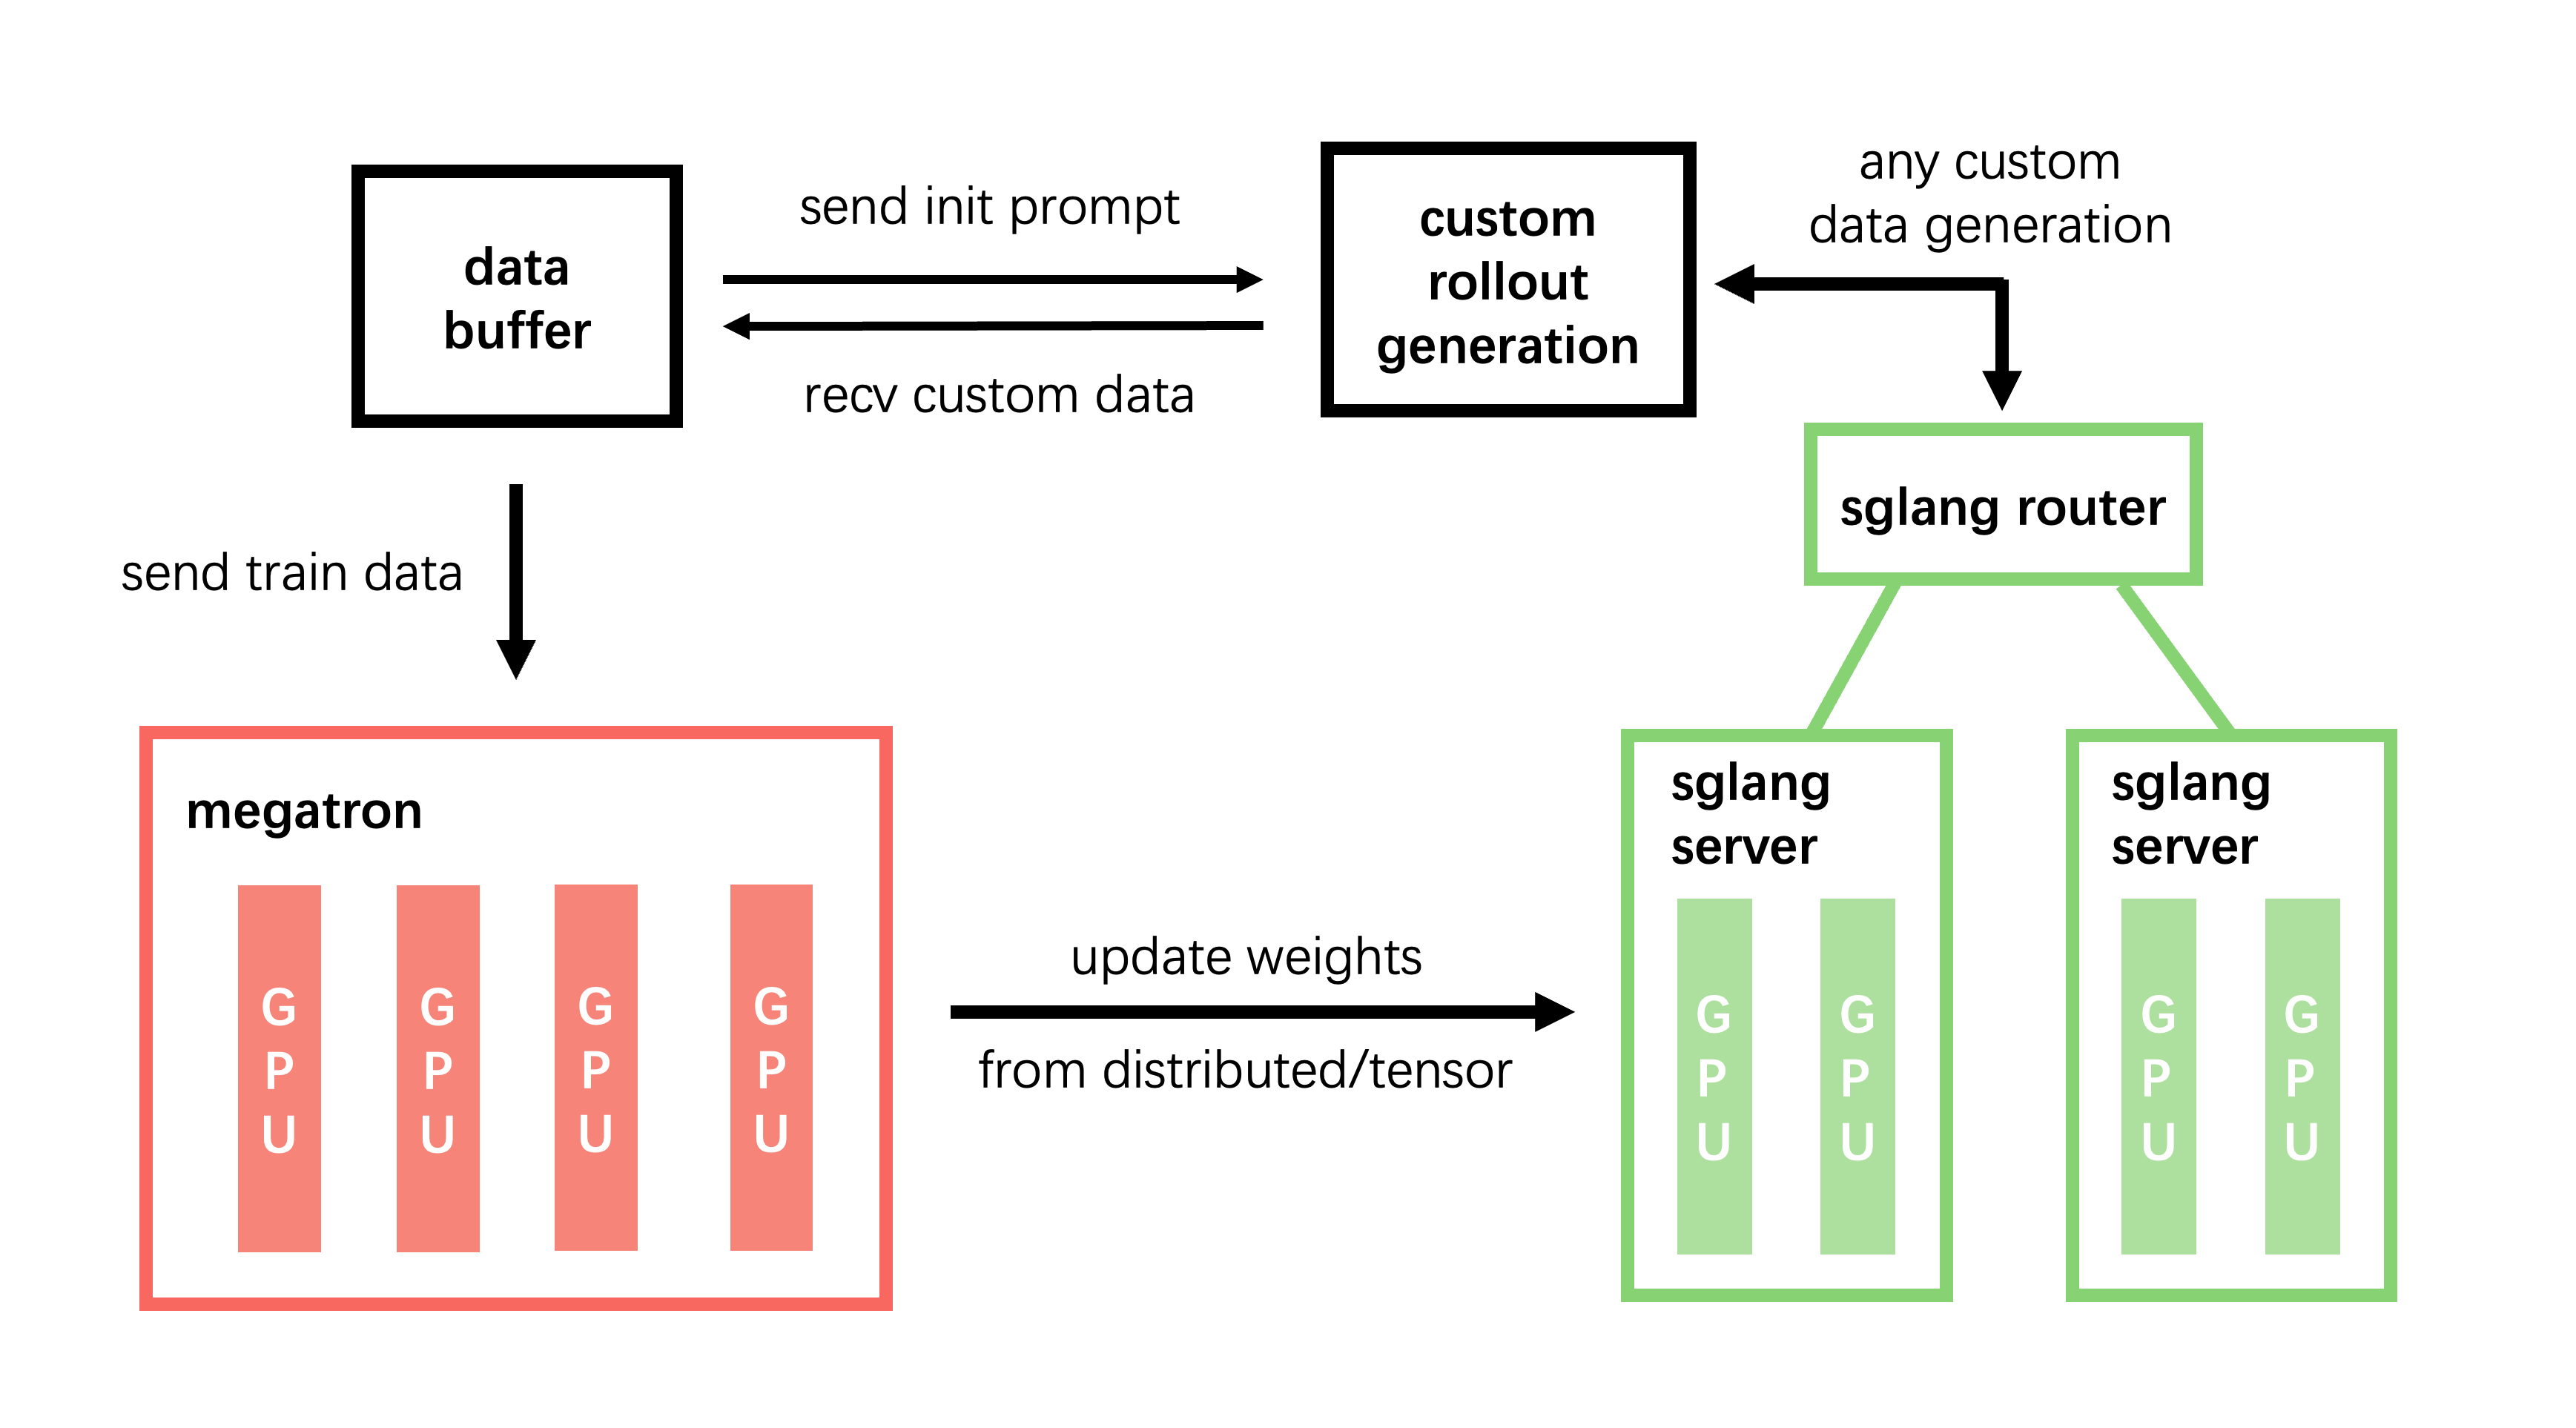
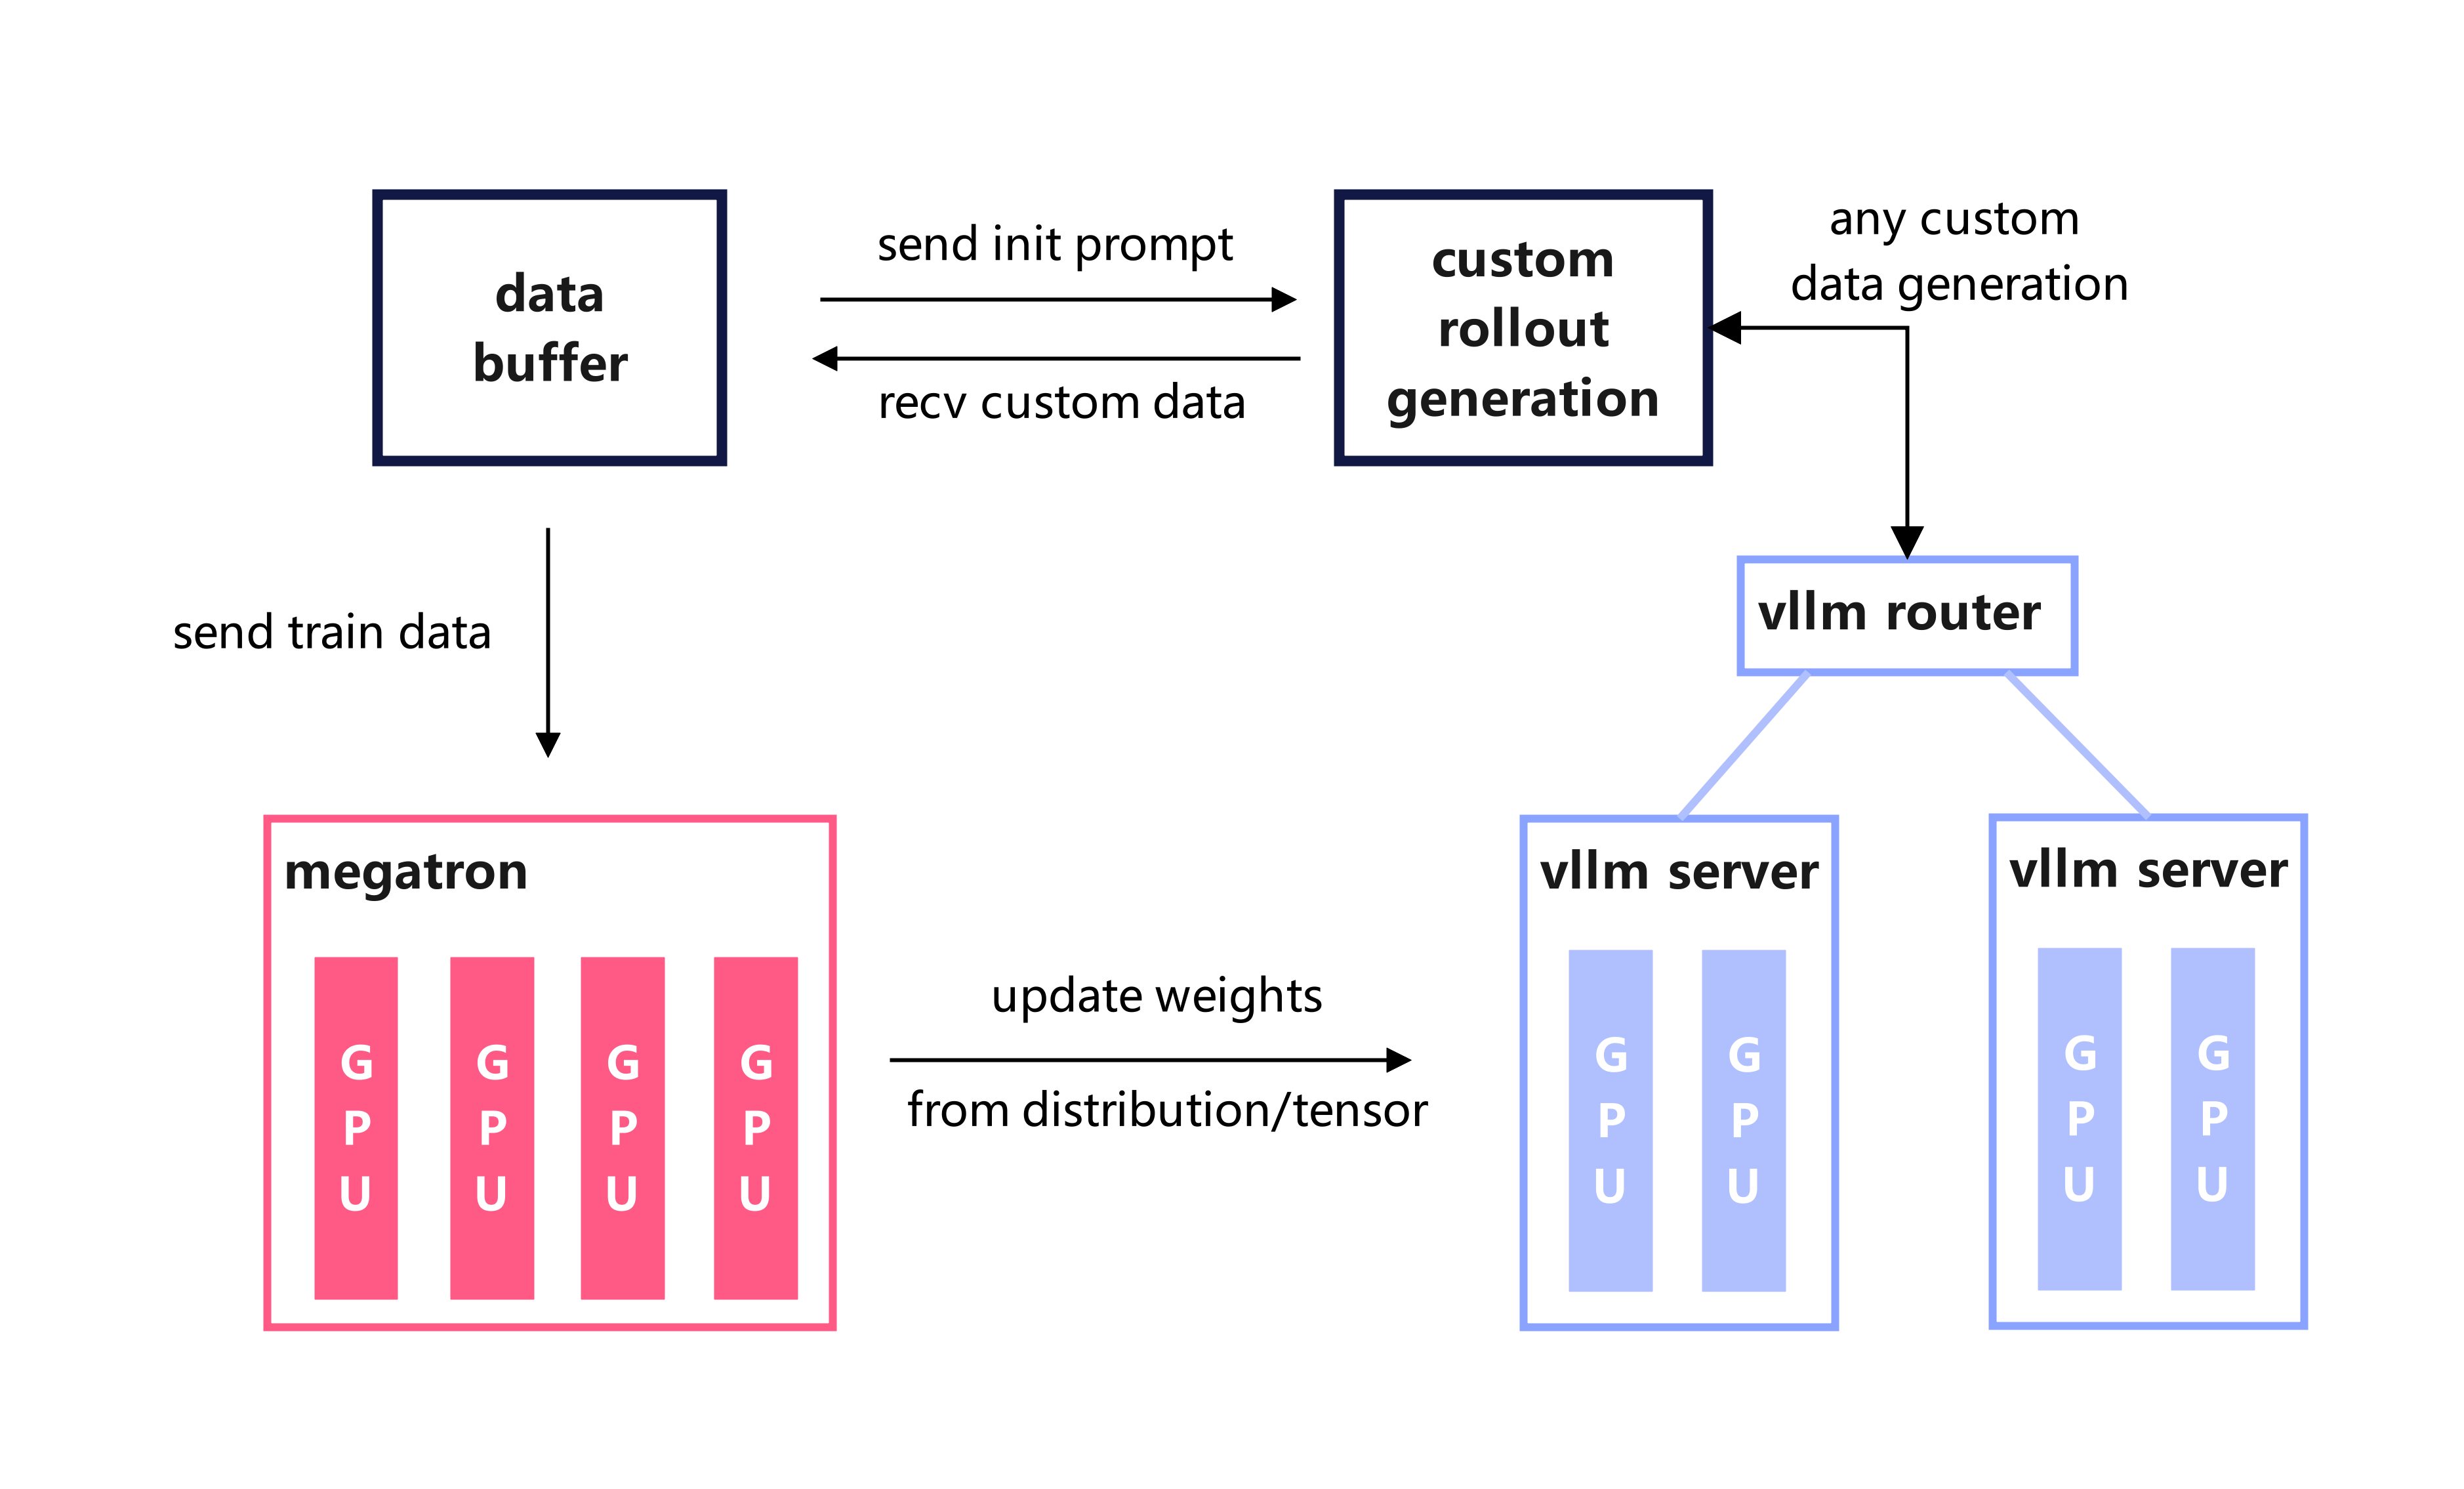
[Doc]: update README for Vime (#28)
* update vime readme

* update arch.png

Changed region(s): [[0.0311, 0.0935, 0.9637, 0.9346], [0.0622, 0.3427, 0.2176, 0.4673]]

diff --git a/README.md b/README.md
@@ -1,33 +1,25 @@
-# slime
+# Vime
 
-[中文版](./README_zh.md)
+[中文版](./README_zh.md) · [Repository](https://github.com/vllm-project/vime)
 
-[![Documentation](https://img.shields.io/badge/docs-latest-brightgreen.svg?style=flat)](https://thudm.github.io/slime/)
-[![Ask DeepWiki](https://deepwiki.com/badge.svg)](https://deepwiki.com/THUDM/slime)
+**Vime** is an LLM post-training framework for RL scaling, built on [slime](https://github.com/THUDM/slime). It keeps slime's training stack and data-generation design while using [**vLLM**](https://github.com/vllm-project/vllm) (with [vllm-router](https://github.com/vllm-project/router)) as the default rollout backend. Vime provides two core capabilities:
 
-**slime** is an LLM post-training framework for RL scaling, providing two core capabilities:
+1. **High-performance training**: Efficient training in various modes by connecting Megatron with vLLM;
+2. **Flexible data generation**: Arbitrary training data generation workflows through custom data generation interfaces and server-based engines.
 
-1.  **High-Performance Training**: Supports efficient training in various modes by connecting Megatron with SGLang;
-2.  **Flexible Data Generation**: Enables arbitrary training data generation workflows through custom data generation interfaces and server-based engines.
+Vime inherits broad model support from slime, including:
 
-slime is the RL-framework behind [GLM-5.1](https://z.ai/blog/glm-5.1), [GLM-5](https://z.ai/blog/glm-5), [GLM-4.7](https://z.ai/blog/glm-4.7), [GLM-4.6](https://z.ai/blog/glm-4.6), [GLM-4.5](https://z.ai/blog/glm-4.5) and apart from models from Z.ai, we also supports the following models:
 - Qwen series (Qwen3.6, Qwen3.5, Qwen3Next, Qwen3MoE, Qwen3, Qwen2.5);
 - DeepSeek V3 series (DeepSeek V3, V3.1, DeepSeek R1);
 - Llama 3.
-
-## Blogs
-
-- Our vision: [slime: An SGLang-Native Post-Training Framework for RL Scaling](https://lmsys.org/blog/2025-07-09-slime/).
-- Our ideas on agentic training: [Agent-Oriented Design: An Asynchronous and Decoupled Framework for Agentic RL](https://www.notion.so/Agent-Oriented-Design-An-Asynchronous-and-Decoupled-Framework-for-Agentic-RL-2278e692d081802cbdd5d37cef76a547)
-- v0.1.0 release note: [v0.1.0: Redefining High-Performance RL Training Frameworks](https://thudm.github.io/slime/blogs/release_v0.1.0.html)
 
 ## Table of Contents
 
 - [Architecture Overview](#architecture-overview)
 - [Quick Start](#quick-start)
-- [Projects Built with slime](#projects-built-with-slime)
 - [Arguments Walkthrough](#arguments-walkthrough)
 - [Developer Guide](#developer-guide)
+- [slime doc](#slime-doc)
 - [FAQ & Acknowledgements](#faq--acknowledgements)
 
 ## Architecture Overview
@@ -37,63 +29,32 @@ slime is the RL-framework behind [GLM-5.1](https://z.ai/blog/glm-5.1), [GLM-5](h
 **Module Descriptions**:
 
 - **training (Megatron)**: Responsible for the main training process, reads data from the Data Buffer, and synchronizes parameters to the rollout module after training.
-- **rollout (SGLang + router)**: Generates new data (including rewards/verifier outputs) and stores it in the Data Buffer.
+- **rollout (vLLM + router)**: Launches vLLM inference engines and routes generation requests; produces new data (including rewards/verifier outputs) and stores it in the Data Buffer.
 - **data buffer**: A bridge module that manages prompt initialization, custom data, and rollout generation methods.
 
 ## Quick Start
 
 For a comprehensive quick start guide covering environment setup, data preparation, training startup, and key code analysis, please refer to:
+
 - [Quick Start Guide](./docs/en/get_started/quick_start.md)
 
 We also provide examples for some use cases not covered in the quick start guide; please check [examples](examples/).
 
-## Projects Built upon slime
-
-slime has powered several novel research projects and production systems. Here are some notable examples:
-
-### 🌈 Relax: Asynchronous RL Engine for Omni-Modal Agentic Training
-
-[**Relax**](https://github.com/redai-infra/Relax) (Reinforcement Engine Leveraging Agentic X-modality) is an omni-modal agentic RL framework open-sourced by the RedAI Infra team, built upon the slime infrastructure stack that combines Ray, Megatron-LM, and SGLang. Relax adopts a service-oriented architecture on Ray Serve with Megatron-LM and SGLang as training/inference backends. It uses [TransferQueue](https://github.com/Ascend/TransferQueue) to fully decouple Actor, Rollout, ActorFwd, Reference, and Advantage computation onto independent GPU clusters, and introduces **DCS (Distributed Checkpoint Service)** — an NCCL-broadcast weight-sync engine that streams updated Actor weights to Rollout/ActorFwd/Reference asynchronously and overlaps the transfer with the next training step, enabling fully-async training at configurable staleness. Relax supports end-to-end RL for text, vision, and audio (including Qwen3-Omni) and agentic multi-turn rollouts.
-
-### 🦞 OpenClaw-RL: Train a Personalized Clawbot Simply by Talking to It
-
-[**OpenClaw-RL**](https://github.com/Gen-Verse/OpenClaw-RL) is an RL server for personalized OpenClaw agents. It hosts the OpenClaw model and improves it from prior conversations across deployments, while slime's asynchronous RL infrastructure prevents training from interfering with API serving. It supports two automatic optimization methods: GRPO with binary feedback inferred from subsequent states, and on-policy distillation that extracts hindsight hints from later feedback for the current policy.
-
-### ⚛️ P1: Mastering Physics Olympiads with Reinforcement Learning
-
-[**P1**](https://prime-rl.github.io/P1/) is a family of open-source physics reasoning models trained entirely through reinforcement learning. P1 leverages slime as the RL post training framework, and introduces a multi-stage RL training algorithm that progressively enhances reasoning ability through adaptive learnability adjustment and stabilization mechanisms. Enpowered by this training paradigm, P1 delivers breakthrough performance in open-source physics reasoning.
-
-### 📈RLVE: Scaling LM RL with Adaptive Verifiable Environments
-
-[**RLVE**](https://github.com/Zhiyuan-Zeng/RLVE) introduces an approach using verifiable environments that procedurally generate problems and provide algorithmically verifiable rewards, to scale up RL for language models (LMs). With joint training across 400 verifiable environments, RLVE enables each environment to dynamically adapt its problem difficulty distribution to the policy model's capabilities as training progresses.
-
-### ⚡ TritonForge: Agentic RL Training Framework for Kernel Generation
-
-[**TritonForge**](https://github.com/RLsys-Foundation/TritonForge) leverages slime's SFT & RL capabilities to train LLMs that automatically generate optimized GPU kernels. By using a two-stage training approach—supervised fine-tuning followed by reinforcement learning with multi-turn compilation feedback—TritonForge achieves remarkable results in converting PyTorch operations into high-performance Triton kernels.
-
-### 🚀 APRIL: Accelerating RL Training with Active Partial Rollouts
-
-[**APRIL**](https://github.com/RLsys-Foundation/APRIL) introduces a system-level optimization that seamlessly integrates with slime to accelerate the rollout generation phase in RL training. By intelligently over-provisioning requests and actively managing partial completions, APRIL addresses the long-tail generation bottleneck that typically consumes over 90% of RL training time.
-
-### 🏟️ qqr: Scaling Open-Ended Agents with ArenaRL & MCP
-
-[**qqr**](https://github.com/Alibaba-NLP/qqr) (a.k.a. hilichurl) is a lightweight extension for slime designed to evolve open-ended agents. It implements the **ArenaRL** algorithm to tackle discriminative collapse through tournament-based relative ranking (**e.g., Seeded Single-Elimination, Round-Robin**) and seamlessly integrates the **Model Context Protocol (MCP)**. qqr leverages slime's high-throughput training capabilities to enable scalable, distributed evolution of agents in standardized, decoupled tool environments.
-
-These projects showcase slime's versatility—from training code-generation models to optimizing RL training systems—making it a powerful foundation for both research and production deployments.
-
 ## Arguments Walkthrough
 
-Arguments in slime are divided into three categories:
+Arguments in Vime are divided into three categories:
 
-1.  **Megatron arguments**: slime reads all arguments in Megatron. You can configure Megatron by passing arguments like `--tensor-model-parallel-size 2`.
-2.  **SGLang arguments**: All arguments for the installed SGLang are supported. These arguments must be prefixed with `--sglang-`. For example, `--mem-fraction-static` should be passed as `--sglang-mem-fraction-static`.
-3.  **slime-specific arguments**: Please refer to: [slime/utils/arguments.py](slime/utils/arguments.py)
+1. **Megatron arguments**: Vime reads all arguments in Megatron. You can configure Megatron by passing arguments like `--tensor-model-parallel-size 2`.
+2. **vLLM arguments**: vLLM server and engine options are exposed with a `--vllm-` prefix (for example, `--vllm-gpu-memory-utilization`). Router-related options use the `--router-` prefix. See [slime/backends/vllm_utils/arguments.py](slime/backends/vllm_utils/arguments.py) for the full surface.
+3. **Framework-specific arguments**: Shared slime/Vime orchestration flags (rollout GPUs, data paths, RL algorithms, etc.). Please refer to [slime/utils/arguments.py](slime/utils/arguments.py).
+
+`--rollout-num-gpus-per-engine` sets the tensor parallel size of each vLLM engine. The default rollout entry is `slime.rollout.vllm_rollout.generate_rollout`.
 
 For complete usage instructions, please refer to the [Usage Documentation](docs/en/get_started/usage.md).
 
 ## Developer Guide
 
-- **Contributions are welcome\!** If you have suggestions for new features, performance tuning, or feedback on user experience, feel free to submit an Issue or PR 😊
+- **Contributions are welcome!** If you have suggestions for new features, performance tuning, or feedback on user experience, feel free to submit an Issue or PR.
 
 - Use [pre-commit](https://pre-commit.com/) to ensure code style consistency for your commits:
 
@@ -107,19 +68,32 @@ pre-commit run --all-files --show-diff-on-failure --color=always
 
 - For debugging tips, please refer to the [Debugging Guide](docs/en/developer_guide/debug.md)
 
+## slime doc
+
+Vime is derived from slime. The following upstream resources and in-repo guides still use the slime naming and remain the reference for shared concepts (Megatron integration, customization, advanced topics):
+
+[![Documentation](https://img.shields.io/badge/slime_docs-latest-brightgreen.svg?style=flat)](https://thudm.github.io/slime/)
+[![Ask DeepWiki](https://deepwiki.com/badge.svg)](https://deepwiki.com/THUDM/slime)
+
+- Upstream repository: [THUDM/slime](https://github.com/THUDM/slime)
+- English docs in this repo: [docs/en/](docs/en/)
+- Chinese docs in this repo: [docs/zh/](docs/zh/)
+- vLLM backend design notes (Chinese): [docs/zh/advanced/slime_vllm_backend_design_v1.md](docs/zh/advanced/slime_vllm_backend_design_v1.md)
+
 ## FAQ & Acknowledgements
 
-- For frequently asked questions, please see the [Q\&A](docs/en/get_started/qa.md)
-- Special thanks to the following projects & communities: SGLang, Megatron‑LM, mbridge, OpenRLHF, veRL, Pai-Megatron-Patch and others.
-- To quote slime, please use:
+- For frequently asked questions, please see the [Q&A](docs/en/get_started/qa.md)
+- Special thanks to the **vLLM** project and the **slime** community, as well as Megatron-LM and other open-source projects that Vime builds upon.
+
+Citation:
 
 ```bibtex
-@misc{slime_github,
-  author       = {Zilin Zhu and Chengxing Xie and Xin Lv and slime Contributors},
-  title        = {slime: An LLM post-training framework for RL Scaling},
-  year         = {2025},
-  howpublished = {\url{https://github.com/THUDM/slime}},
-  note         = {GitHub repository. Corresponding author: Xin Lv},
-  urldate      = {2025-06-19}
+@misc{vime,
+  author       = {Vime Contributors},
+  title        = {Vime: An LLM post-training framework with vLLM for RL Scaling},
+  year         = {2026},
+  howpublished = {\url{https://github.com/vllm-project/vime}},
+  note         = {Based on slime. GitHub repository.},
+  urldate      = {2026-05-25}
 }
 ```

diff --git a/README_zh.md b/README_zh.md
@@ -1,35 +1,25 @@
-# slime
+# Vime
 
-[English](./README.md)
+[English](./README.md) · [代码仓库](https://github.com/vllm-project/vime)
 
-[![Documentation](https://img.shields.io/badge/docs-latest-brightgreen.svg?style=flat)](https://thudm.github.io/slime/)
-[![Ask DeepWiki](https://deepwiki.com/badge.svg)](https://deepwiki.com/THUDM/slime)
+**Vime** 是基于 [slime](https://github.com/THUDM/slime) 的 RL scaling 用 LLM post-training 框架。在保留 slime 训练栈与数据生成设计的同时，默认以 [**vLLM**](https://github.com/vllm-project/vllm)（配合 [vllm-router](https://github.com/vllm-project/router)）作为 rollout 后端，替代 SGLang。Vime 提供两大核心能力：
 
-**slime** 是为 RL scaling 设计的 LLM post‑training 框架，提供两大核心能力：
+1. **高性能训练**：通过连接 Megatron 与 vLLM，支持各种模式的高效训练；
+2. **灵活的数据生成**：通过自定义数据生成接口以及 server based engine，实现任意的训练数据生成流程。
 
-1. **高性能训练**：通过连接 Megatron 与 SGLang，支持各种模式的高效训练；
-2. **灵活的数据生成**：通过自定义数据生成接口以及 server based engine，实现任意的数据训练数据生成流程。
+Vime 继承 slime 的广泛模型支持，包括：
 
-slime 是 [GLM-5.1](https://z.ai/blog/glm-5.1)、[GLM-5](https://z.ai/blog/glm-5)、[GLM-4.7](https://z.ai/blog/glm-4.7)、[GLM-4.6](https://z.ai/blog/glm-4.6)、[GLM-4.5](https://z.ai/blog/glm-4.5) 背后的 RL 训练框架，除此之外，slime 还支持:
-- Qwen 系列 (Qwen3.6、Qwen3.5、Qwen3Next、Qwen3MoE、Qwen3、Qwen2.5)；
-- DeepSeek V3 系列 (DeepSeek V3, V3.1, DeepSeek R1)；
+- Qwen 系列（Qwen3.6、Qwen3.5、Qwen3Next、Qwen3MoE、Qwen3、Qwen2.5）；
+- DeepSeek V3 系列（DeepSeek V3、V3.1、DeepSeek R1）；
 - Llama 3。
-
-## 博文
-
-- 我们的愿景：[slime：为 RL Scaling 设计的 SGLang-Native 后训练框架](https://thudm.github.io/slime/zh/blogs/introducing_slime.html)
-- 关于纯异步 agentic 训练的一些想法：[Agent-Oriented Design: An Asynchronous and Decoupled Framework for Agentic RL](https://www.notion.so/Agent-Oriented-Design-An-Asynchronous-and-Decoupled-Framework-for-Agentic-RL-2278e692d081802cbdd5d37cef76a547)
-- v0.1.0 日志：[slime v0.1.0: 重新定义高性能 RL 训练框架](https://zhuanlan.zhihu.com/p/1945237948166547268)
-
 
 ## 目录
 
 - [架构总览](#架构总览)
 - [快速开始](#快速开始)
-- [Checkpoint 格式转换](#checkpoint-格式转换)
-- [启动训练流程](#启动训练流程)
 - [参数说明](#参数说明)
 - [开发指南](#开发指南)
+- [slime doc](#slime-doc)
 - [常见 Q&A 与致谢](#常见-qa-与致谢)
 
 ## 架构总览
@@ -39,7 +29,7 @@ slime 是 [GLM-5.1](https://z.ai/blog/glm-5.1)、[GLM-5](https://z.ai/blog/glm-5
 **模块说明**：
 
 - **training (Megatron)**：负责主训练流程，从 Data Buffer 读取数据，训练完后将参数同步至 rollout 模块；
-- **rollout (SGLang + router)**：生成新数据（含 reward/verifier），存储至 Data Buffer；
+- **rollout (vLLM + router)**：启动 vLLM 推理引擎并路由生成请求，产出新数据（含 reward/verifier），存储至 Data Buffer；
 - **data buffer**：桥梁模块，管理 prompt 初始化、自定义数据与 rollout 生成方法。
 
 ## 快速开始
@@ -52,17 +42,19 @@ slime 是 [GLM-5.1](https://z.ai/blog/glm-5.1)、[GLM-5](https://z.ai/blog/glm-5
 
 ## 参数说明
 
-参数分为三类：
+Vime 的参数分为三类：
 
-1. **megatron 参数**：slime 会读取 `PYTHONPATH` 中的 megatron 里设置的所有参数，可以通过传入如 `--tensor-model-parallel-size 2` 的方式配置 megatron；
-2. **sglang 参数**：支持环境中安装的 sglang 的所有参数，这些参数需要以 `--sglang` 起始，例如 `--mem-fraction-static` 需要通过 `--sglang-mem-fraction-static` 传入。
-3. **slime 自身的参数**：请见：[slime/utils/arguments.py](slime/utils/arguments.py)
+1. **Megatron 参数**：Vime 会读取 Megatron 中的全部参数，可通过传入如 `--tensor-model-parallel-size 2` 的方式配置 Megatron；
+2. **vLLM 参数**：vLLM server 与 engine 相关选项以 `--vllm-` 为前缀（例如 `--vllm-gpu-memory-utilization`）；路由相关选项使用 `--router-` 前缀。完整参数见 [slime/backends/vllm_utils/arguments.py](slime/backends/vllm_utils/arguments.py)。
+3. **框架参数**：与 slime/Vime 编排相关的开关（rollout GPU、数据路径、RL 算法等），见 [slime/utils/arguments.py](slime/utils/arguments.py)。
+
+`--rollout-num-gpus-per-engine` 对应每个 vLLM engine 的 tensor parallel size。默认 rollout 入口为 `slime.rollout.vllm_rollout.generate_rollout`。
 
 完整使用说明请查阅 [使用文档](docs/zh/get_started/usage.md)。
 
 ## 开发指南
 
-- **欢迎贡献！** 若有功能建议、性能调优或使用体验反馈，欢迎提交 Issue / PR 😊
+- **欢迎贡献！** 若有功能建议、性能调优或使用体验反馈，欢迎提交 Issue / PR。
 
 - 使用 [pre-commit](https://pre-commit.com/) 保证提交代码风格：
 
@@ -76,19 +68,32 @@ slime 是 [GLM-5.1](https://z.ai/blog/glm-5.1)、[GLM-5](https://z.ai/blog/glm-5
 
 - 调试技巧请参考 [debug 指南](docs/zh/developer_guide/debug.md)
 
+## slime doc
+
+Vime 由 slime 衍生而来。以下上游资源与本仓库文档仍沿用 slime 命名，可作为共享概念（Megatron 集成、定制化、高级主题）的参考：
+
+[![Documentation](https://img.shields.io/badge/slime_文档-latest-brightgreen.svg?style=flat)](https://thudm.github.io/slime/)
+[![Ask DeepWiki](https://deepwiki.com/badge.svg)](https://deepwiki.com/THUDM/slime)
+
+- 上游仓库：[THUDM/slime](https://github.com/THUDM/slime)
+- 本仓库英文文档：[docs/en/](docs/en/)
+- 本仓库中文文档：[docs/zh/](docs/zh/)
+- vLLM 后端设计说明：[docs/zh/advanced/slime_vllm_backend_design_v1.md](docs/zh/advanced/slime_vllm_backend_design_v1.md)
+
 ## 常见 Q&A 与致谢
 
 - 常见问题请见 [Q&A](docs/zh/get_started/qa.md)
-- 特别感谢以下项目 & 社区：SGLang、Megatron‑LM、mbridge、OpenRLHF、veRL、Pai-Megatron-Patch 等。
+- 特别感谢 **vLLM** 项目与 **slime** 社区，以及 Vime 所依赖的 Megatron-LM 等开源项目。
 
-- 引用 slime 请使用：
+引用 Vime 请使用：
+
 ```bibtex
-@misc{slime_github,
-  author       = {Zilin Zhu and Chengxing Xie and Xin Lv and slime Contributors},
-  title        = {slime: An LLM post-training framework for RL Scaling},
-  year         = {2025},
-  howpublished = {\url{https://github.com/THUDM/slime}},
-  note         = {GitHub repository. Corresponding author: Xin Lv},
-  urldate      = {2025-06-19}
+@misc{vime,
+  author       = {Vime Contributors},
+  title        = {Vime: An LLM post-training framework with vLLM for RL Scaling},
+  year         = {2026},
+  howpublished = {\url{https://github.com/vllm-project/vime}},
+  note         = {Based on slime. GitHub repository.},
+  urldate      = {2026-05-25}
 }
 ```